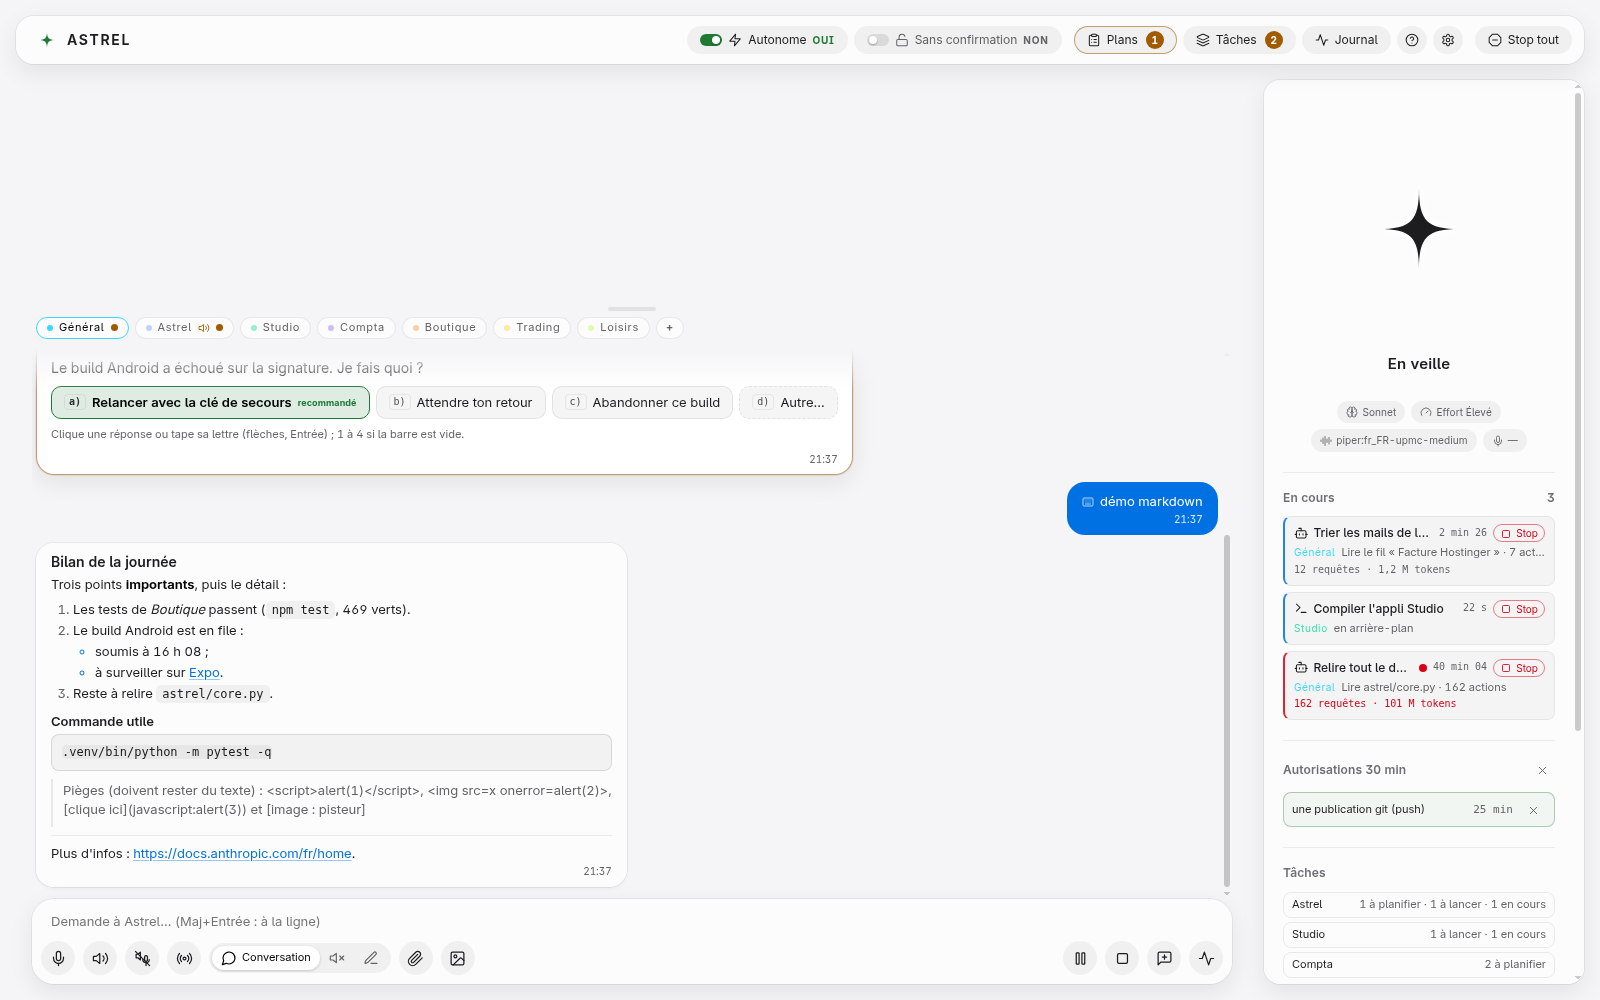
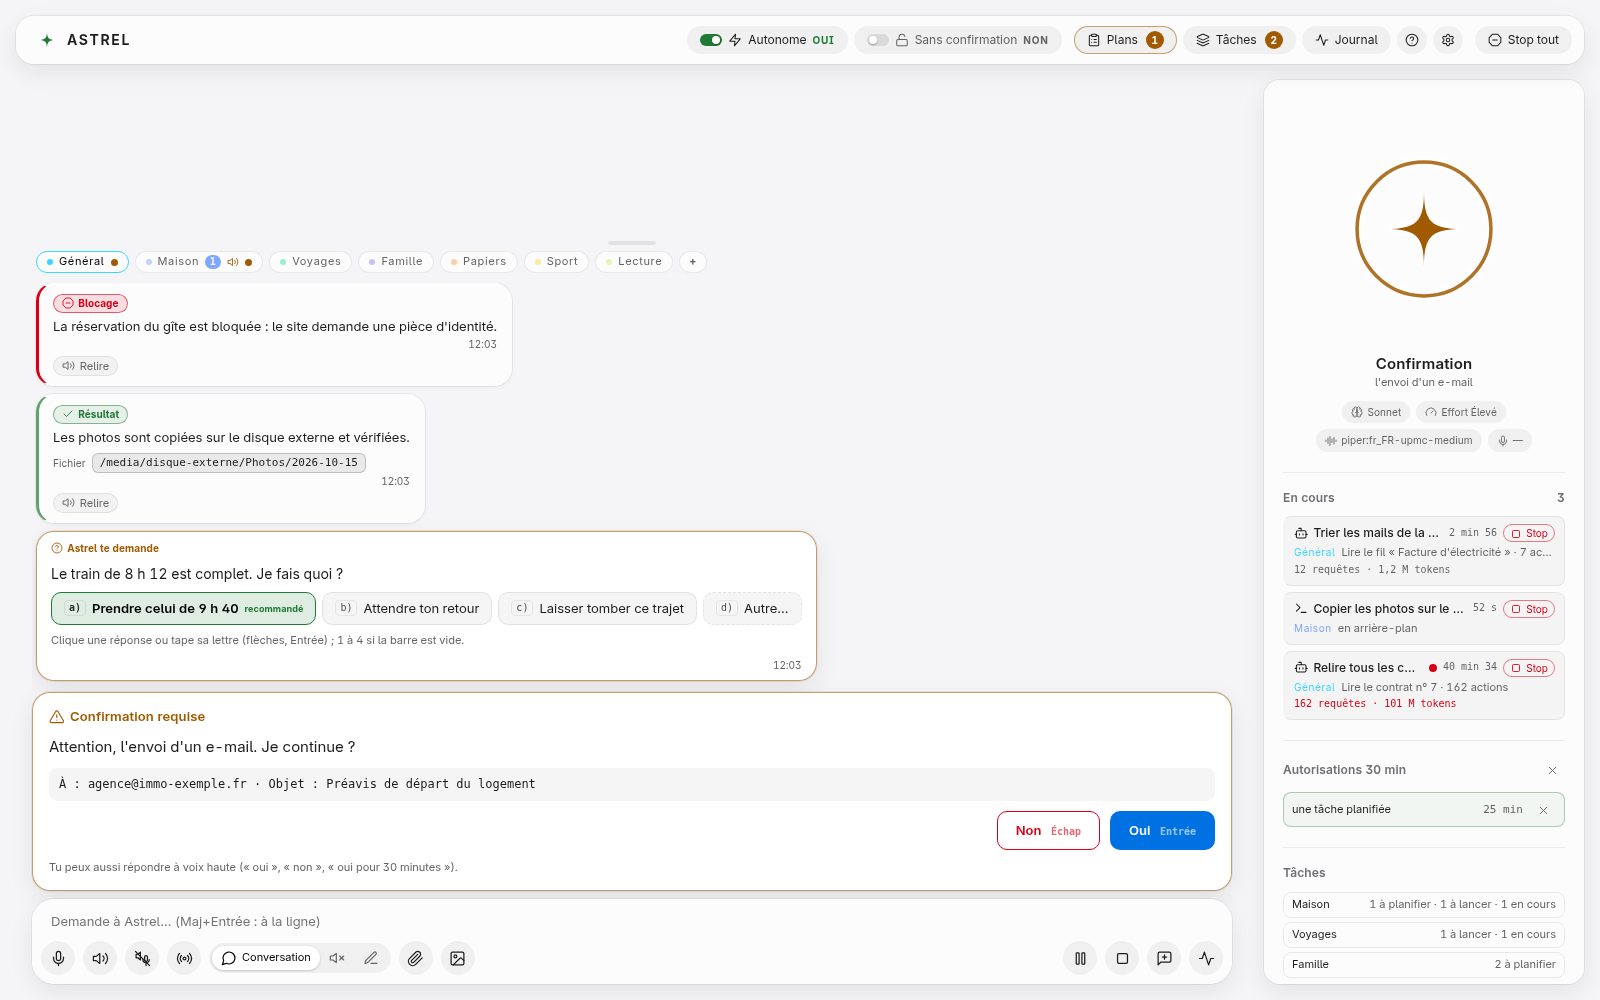
docs : installation Windows par WSL2, ouverture du HUD hors Linux
README FR et EN : WSL2 devient la voie conseillée sous Windows (systemd,
Claude Code et Chrome dans Ubuntu, micro) ; Windows natif signalé comme pas
encore prêt. --hud ouvre le navigateur par défaut quand xdg-open manque.

diff --git a/tests/test_renommage_astrel.py b/tests/test_renommage_astrel.py
@@ -5,7 +5,7 @@ Contrôle de fin du chantier : plus aucun fichier du projet ne contient l'ancien
 son nom. ROUGE tant que les lots 1 à 7 du plan ne sont pas tous faits (variables d'environnement,
 paquet Python, serveur MCP, services, dossier, données) : le message d'échec dit où il en reste.
 
-Liste blanche (plan P42) : `reference/` (absent de ce dépôt), NOTICE, LICENSE, le
+Liste blanche (plan P42) : NOTICE, LICENSE, le
 modèle openWakeWord tiers `hey_jarvis_v0.1.onnx`, et ce fichier lui-même (il doit nommer ce qu'il
 cherche). Hors contrôle : venvs, node_modules, données d'entraînement, `runtime/`, `logs/` (données,
 lot 6), `.git`, caches, binaires.
@@ -23,7 +23,7 @@ ANCIEN = re.compile("jarvis", re.I)
 # Dossiers jamais parcourus (données, dépendances, caches) : par NOM, à tout niveau.
 SAUTES = {"node_modules", "__pycache__", ".pytest_cache", ".git", ".eveil-donnees", ".rtk"}
 # Dossiers de premier niveau hors contrôle : venvs, données (lot 6) et liste blanche du plan.
-SAUTES_RACINE = {"runtime", "logs", "reference"}
+SAUTES_RACINE = {"runtime", "logs"}
 # Fichiers de la liste blanche (chemins relatifs à la racine).
 BLANCHE = {"NOTICE", "LICENSE", "tests/test_renommage_astrel.py"}
 BLANCHE_NOMS = {"hey_jarvis_v0.1.onnx"}
@@ -101,5 +101,4 @@ def test_aucun_fichier_ne_porte_l_ancien_nom():
 def test_la_liste_blanche_reste_en_place():
     """La liste blanche ne doit pas cacher un oubli : chaque entrée existe vraiment."""
     assert (ROOT / "NOTICE").is_file() and (ROOT / "LICENSE").is_file()
-    # Dépôt public : pas de dossier reference/ ; la licence est celle du projet.
     assert "PolyForm Noncommercial" in (ROOT / "LICENSE").read_text(encoding="utf-8")

diff --git a/tests/test_maj.py b/tests/test_maj.py
@@ -1,5 +1,5 @@
 """Groupe « Mises à jour » de la page « Réglages » (17/10, plan P4, lot 7) : version,
-`git fetch`, `update.py` (jamais update.sh) seulement hors d'un dépôt bloqué et sans fichier suivi
+`git fetch`, `update.py` (jamais update.sh) seulement avec une origine et sans fichier suivi
 modifié. Faux git : rien n'est lancé pour de vrai."""
 import types
 
@@ -48,12 +48,11 @@ def test_version_et_depot_sans_identifiants(git):
     assert lines["Dépôt"] == "https://github.com/ami/astrel.git" and lines["État"] == "pas encore vérifié"
 
 
-def test_depot_bloque_tout_grise(git, monkeypatch):
+def test_sans_depot_d_origine_tout_grise(git):
     m, state, calls, launched = git
-    monkeypatch.setattr(maj_mod, "BLOCKED_ORIGINS", ("ancien-depot",))
-    state["origin"] = "https://github.com/exemple/ancien-depot.git"
+    state["origin"] = ""
     a = actions(m.view())
-    assert a["check"]["disabled"] and a["update"]["disabled"] and "bloqué" in a["update"]["reason"]
+    assert a["check"]["disabled"] and a["update"]["disabled"] and "origine" in a["update"]["reason"]
     assert m.run("update")["ok"] is False and m.run("check")["ok"] is False
     assert launched == [] and not any(c[0] == "fetch" for c in calls)
     assert reglages.action("maj", "update", {})["ok"] is False

diff --git a/astrel/maj.py b/astrel/maj.py
@@ -3,8 +3,7 @@
 - Version : `astrel.__version__` et le commit en cours.
 - « Vérifier » : `git fetch` (fil à part), puis le nombre de commits d'avance du dépôt.
 - « Mettre à jour » : lance `update.py` (JAMAIS `update.sh`), détaché (il relance Astrel),
-  SEULEMENT si le dépôt d'origine n'est pas bloqué (`BLOCKED_ORIGINS`) et si
-  aucun fichier suivi n'est modifié ; sinon le bouton est grisé avec sa raison.
+  SEULEMENT s'il y a un dépôt d'origine et si aucun fichier suivi n'est modifié ; sinon le bouton est grisé avec sa raison.
 Rien n'est jamais poussé.
 """
 from __future__ import annotations
@@ -21,7 +20,6 @@ from . import __version__, config
 
 log = logging.getLogger("astrel.maj")
 
-BLOCKED_ORIGINS: tuple[str, ...] = ()  # morceaux d'adresse d'un dépôt d'origine à ne jamais mettre à jour
 FETCH_TIMEOUT_S = 60.0
 LOCAL_CACHE_S = 30.0
 
@@ -80,8 +78,6 @@ class MiseAJour:
         origin = str(state.get("origin") or "").lower()
         if not origin:
             return "aucun dépôt d'origine"
-        if any(b in origin for b in BLOCKED_ORIGINS):
-            return "dépôt d'origine bloqué : ce n'est pas celui d'Astrel, mise à jour à la main"
         return ""
 
     # ------------------------------------------------------------------ vue

diff --git a/astrel/audio.py b/astrel/audio.py
@@ -1,7 +1,7 @@
 """Capture et restitution audio via PipeWire en ligne de commande.
 
 ⚠ On évite volontairement PortAudio (`sounddevice`) : il exige le paquet système
-`libportaudio2`, absent de la machine de référence. `parecord`/`paplay` sont déjà là et suffisent.
+`libportaudio2`, absent de cette machine. `parecord`/`paplay` sont déjà là et suffisent.
 
 Portage (P2, lot 5) : ce moteur « pulse » reste celui de Linux, inchangé. Sous
 macOS et Windows, où il n'y a pas PipeWire, le moteur `sounddevice` (PortAudio

diff --git a/astrel/cli.py b/astrel/cli.py
@@ -180,7 +180,12 @@ def open_hud() -> int:
             if pages:
                 _close_older_huds(opened_at)
             return 0
-    subprocess.Popen(["xdg-open", url], start_new_session=True)
+    if shutil.which("xdg-open"):
+        subprocess.Popen(["xdg-open", url], start_new_session=True)
+    else:
+        # 03/11 : macOS et Windows n'ont pas xdg-open ; navigateur par défaut du système.
+        import webbrowser
+        webbrowser.open(url)
     return 0
 
 

diff --git a/README.md b/README.md
@@ -16,8 +16,8 @@ montre ce qu'il fait pendant qu'il le fait.
 **Un garde-fou avant chaque action.** Claude tourne sans demander de permission au CLI, mais un hook
 `PreToolUse` (`hooks/permission_hook.py`, logique dans `astrel/guard.py`) juge chaque appel d'outil.
 Les commandes Bash sont analysées de façon structurée : suppressions récursives, écritures vers des
-fichiers sensibles, commandes déguisées. Ce qui est grave (supprimer, envoyer, payer, `sudo`,
-`git push`…) attend une réponse à la voix, d'un clic dans le HUD ou d'un geste devant la webcam.
+fichiers sensibles, commandes déguisées. Ce qui est grave (supprimer, envoyer, payer, partager,
+`sudo`…) attend une réponse à la voix, d'un clic dans le HUD ou d'un geste devant la webcam.
 Un hook qui plante refuse. Au troisième refus d'affilée dans un même message, un disjoncteur dit à
 Claude d'arrêter de contourner et de demander. Avant chaque écriture de Claude, le hook garde la
 version d'avant : « annule ce que tu viens de faire » rétablit le dernier lot de fichiers. Claude ne peut ni répondre « oui » à sa propre demande ni desserrer le
@@ -42,11 +42,11 @@ passe jamais par la ligne de commande et un cookie signé. Le markdown des répo
 nœuds DOM d'une liste fermée, sans `innerHTML`. Une bulle flottante (GTK) donne l'état d'un coup
 d'œil et reçoit les questions de confirmation.
 
-**Une équipe d'agents pour les projets de l'utilisateur.** Astrel délègue à des sous-agents
-définis dans `config/agents/` (codeur, testeur, relecteur, planificateur, chercheur…), chacun avec
-sa fiche de métier. Après un codeur, un testeur puis un relecteur repassent derrière. Un hook choisit
-le modèle de chaque sous-agent : une tâche de code part toujours sur Opus. Les gros chantiers
-passent par un mode plan : un plan écrit, relu dans le HUD, puis exécuté.
+**Des agents spécialisés, lancés en fond pour les tâches longues.** Une recherche sur plusieurs
+sites, une semaine de mails à trier : Astrel confie ce qui prend du temps à des sous-agents définis
+dans `config/agents/`, chacun avec sa fiche de métier, et la conversation continue pendant ce temps.
+Le HUD montre ce que fait chaque agent et ce qu'il a coûté. Il prévient quand l'un d'eux s'emballe.
+Les gros chantiers passent par un mode plan : un plan écrit, relu dans le HUD, puis exécuté.
 
 **De la mémoire et des jetons comptés.** Notes en Markdown dans un coffre local, rappelées avant
 chaque message ; historique des conversations indexé en SQLite FTS5 (`history_search`). Quand le
@@ -92,7 +92,7 @@ flowchart LR
     Claude --> Hook{"Hook PreToolUse<br/>garde-fou"}
     Hook -->|autorisé| Outils["Terminal, fichiers,<br/>MCP Astrel, navigateur"]
     Hook -->|grave| Accord(["Accord de l'utilisateur :<br/>voix, HUD, bulle, geste"])
-    Claude --> Agents["Sous-agents<br/>codeur, testeur, relecteur"]
+    Claude --> Agents["Agents spécialisés<br/>tâches longues, en fond"]
     Coeur --> Voix["Voix phrase par phrase<br/>Edge, Piper en secours"] --> HP((Haut-parleur))
     Coeur <--> HUD["HUD web<br/>127.0.0.1 seulement"]
     Coeur <--> Bulle["Bulle GTK"]
@@ -108,8 +108,9 @@ texte des réponses, jamais le son du micro.
 |---|---|
 | **Debian 13**, GNOME, Wayland | Utilisé tous les jours : c'est la machine de référence. |
 | Ubuntu 24.04, Debian 12 | Mêmes paquets ; pas encore essayé sur une machine neuve. |
-| Windows 11 + WSL2 | Prévu (son par WSLg), pas vérifié. Ni bulle ni raccourcis. |
-| macOS, Windows natif | Portés sur le papier (couche `astrel/platform/`), **jamais lancés sur une vraie machine**. |
+| Windows 10 ou 11 + WSL2 | **La voie conseillée sous Windows** : le code Linux, dans Ubuntu. Premier essai en cours. |
+| macOS | Porté sur le papier (couche `astrel/platform/`), **jamais lancé sur une vraie machine**. |
+| Windows natif | **Pas encore prêt** : le démarrage plante (deux appels propres à Linux à adapter). |
 
 La bulle, les raccourcis globaux, le démarrage automatique et la transcription sur carte graphique
 ne marchent que sous Linux. Hors Linux, la protection contre un programme lancé par Claude est plus
@@ -139,8 +140,8 @@ le HUD ouvre un guide de démarrage ([docs/GUIDE-DEMARRAGE.md](docs/GUIDE-DEMARR
 du mode d'emploi est dans [docs/UTILISATION.md](docs/UTILISATION.md) et
 [docs/DEPANNAGE.md](docs/DEPANNAGE.md).
 
-Une nouvelle installation démarre en mode prudent : il demande aussi pour les commits, les comptes
-connectés et l'écriture dans le dossier personnel. `./run.sh doctor` vérifie que le garde-fou est en
+Une nouvelle installation démarre en mode prudent : il demande aussi pour les comptes connectés et
+l'écriture dans le dossier personnel. `./run.sh doctor` vérifie que le garde-fou est en
 place et n'a pas changé.
 
 Pour essayer le HUD sans micro ni abonnement : `.venv/bin/python tools/hud_demo.py` puis `./hud.sh`.
@@ -163,30 +164,45 @@ python3.12 install.py                     # installateur commun (aucun sudo)
 Le son passe par sounddevice, installé avec Astrel ; macOS demande l'accès au micro au premier
 lancement. Le dossier des projets est `~/Projets`, ou celui de la variable `ASTREL_WORKDIR`.
 
-### Windows (expérimental)
+### Windows : par WSL2
 
-**Par WSL2, la voie conseillée, non vérifiée.** Dans PowerShell lancé en administrateur :
-`wsl --install -d Ubuntu-24.04`, redémarrer, puis suivre la partie Debian ou Ubuntu dans la
-fenêtre Ubuntu. WSL n'a pas toujours systemd : lancer alors Astrel avec
-`ASTREL_WORKDIR=~/Projets ./run.sh` et le HUD avec `./hud.sh`. Le son passe par WSLg ; le micro
-n'a pas été essayé (`./run.sh --listen` pour le vérifier).
+Astrel tourne alors dans un Ubuntu intégré à Windows, avec le même code que sur la machine de
+référence. Il faut Windows 11, ou Windows 10 à jour (version 22H2), pour que WSLg transmette le son,
+le micro et les fenêtres. Cette voie est en cours de premier essai : signale tout ce qui coince.
 
-**En natif, jamais lancé sur une vraie machine.** Dans PowerShell :
+1. Dans PowerShell **lancé en administrateur** :
+   ```powershell
+   wsl --install -d Ubuntu-24.04
+   ```
+   Redémarre, ouvre « Ubuntu » depuis le menu Démarrer et crée l'utilisateur demandé.
+2. Vérifie que systemd tourne dans Ubuntu : `systemctl --user status` doit répondre. Sinon :
+   ```bash
+   printf '[boot]\nsystemd=true\n' | sudo tee /etc/wsl.conf
+   ```
+   puis `wsl --shutdown` dans PowerShell, et rouvre Ubuntu.
+3. Installe Claude Code **dans Ubuntu** et connecte-le à ton abonnement Claude (Pro ou Max) :
+   ```bash
+   curl -fsSL https://claude.ai/install.sh | bash
+   claude          # suis le lien de connexion, puis /exit
+   ```
+4. Installe Google Chrome dans Ubuntu : le HUD s'ouvre dans une fenêtre de Chrome, affichée sur le
+   bureau Windows par WSLg.
+   ```bash
+   wget https://dl.google.com/linux/direct/google-chrome-stable_current_amd64.deb
+   sudo apt install ./google-chrome-stable_current_amd64.deb
+   ```
+5. Suis la partie **Debian ou Ubuntu** ci-dessus, dans la fenêtre Ubuntu. Clone Astrel dans le
+   dossier Linux (`~/Astrel`), pas sous `/mnt/c/…`, beaucoup plus lent.
+6. Vérifie le micro avec `./run.sh --listen`. Windows doit autoriser le micro aux applications de
+   bureau (Paramètres › Confidentialité et sécurité › Microphone).
 
-```powershell
-winget install Python.Python.3.12        # case « Add to PATH » cochée
-winget install Git.Git
-winget install OpenJS.NodeJS.LTS
-git clone https://github.com/Zaudrax/Astrel.git $HOME\Astrel
-cd $HOME\Astrel
-py tools\check_install.py
-.\install.ps1                            # refusé ? PowerShell -ExecutionPolicy Bypass -File .\install.ps1
-.venv\Scripts\python -m astrel
-.venv\Scripts\python -m astrel --hud     # dans un autre terminal
-```
+Une carte NVIDIA sert aussi sous WSL2 si son pilote Windows est à jour ; sinon le processeur
+transcrit, plus lentement. La bulle et les raccourcis globaux ne sont pas garantis sous WSLg.
 
-Installe Astrel dans ton profil (`C:\Users\<toi>\…`), pas à la racine d'un disque : le canal
-local passe par 127.0.0.1 avec un jeton écrit dans le dossier d'Astrel.
+### Windows natif : pas encore prêt
+
+`install.ps1` existe, mais Astrel plante au démarrage tant que deux appels propres à Linux ne sont
+pas adaptés (serveur du HUD). Passe par WSL2 en attendant.
 
 **Hors Linux, ce qui manque encore :** la bulle, les raccourcis globaux, le démarrage automatique
 (Astrel se lance à la main), la transcription sur carte graphique (elle passe par le processeur)

diff --git a/README.en.md b/README.en.md
@@ -16,7 +16,7 @@ while it does it.
 **A guardrail before every action.** Claude runs without the CLI's permission prompts, but a
 `PreToolUse` hook (`hooks/permission_hook.py`, logic in `astrel/guard.py`) judges every tool call.
 Bash commands are parsed structurally: recursive deletes, writes to sensitive files, disguised
-commands. Anything serious (deleting, sending, paying, `sudo`, `git push`…) waits for an answer by
+commands. Anything serious (deleting, sending, paying, sharing, `sudo`…) waits for an answer by
 voice, a click in the HUD or a gesture in front of the webcam. A hook that crashes denies. After three refusals in a row within one message, a circuit breaker
 tells Claude to stop working around it and ask. Before each write by Claude, the hook keeps the
 previous version: "undo what you just did" restores the last batch of files. Claude
@@ -41,11 +41,11 @@ appears on a command line and a signed cookie. Markdown in answers is rendered a
 closed list, without `innerHTML`. A floating bubble (GTK) shows the state at a glance and receives
 confirmation questions.
 
-**A team of agents for the user's projects.** Astrel delegates to sub-agents defined in
-`config/agents/` (coder, tester, reviewer, planner, researcher…), each with its role sheet. After a
-coder, a tester then a reviewer check the work. A hook picks each sub-agent's model: a coding task
-always runs on Opus. Large jobs go through a plan mode: a written plan, reviewed in the HUD, then
-carried out.
+**Specialised agents running in the background for long tasks.** A search across several sites, a
+week of email to sort: Astrel hands the slow work to sub-agents defined in `config/agents/`, each
+with its role sheet, and the conversation goes on in the meantime. The HUD shows what each agent is
+doing and what it has cost, and warns when one of them runs away. Large jobs go through a plan
+mode: a written plan, reviewed in the HUD, then carried out.
 
 **Memory, and tokens kept in check.** Markdown notes in a local vault, recalled before each
 message; conversation history indexed with SQLite FTS5 (`history_search`). When the context goes
@@ -91,7 +91,7 @@ flowchart LR
     Claude --> Hook{"PreToolUse hook<br/>guardrail"}
     Hook -->|allowed| Tools["Terminal, files,<br/>Astrel MCP, browser"]
     Hook -->|serious| Consent(["User's consent:<br/>voice, HUD, bubble, gesture"])
-    Claude --> Agents["Sub-agents<br/>coder, tester, reviewer"]
+    Claude --> Agents["Specialised agents<br/>long tasks, in the background"]
     Core --> Voice["Sentence-by-sentence voice<br/>Edge, Piper fallback"] --> Spk((Speaker))
     Core <--> HUD["Web HUD<br/>127.0.0.1 only"]
     Core <--> Bubble["GTK bubble"]
@@ -107,8 +107,9 @@ receives the text of the answers, never the microphone audio.
 |---|---|
 | **Debian 13**, GNOME, Wayland | Used every day: this is the reference machine. |
 | Ubuntu 24.04, Debian 12 | Same packages; not yet tried on a fresh machine. |
-| Windows 11 + WSL2 | Planned (sound through WSLg), not verified. No bubble, no shortcuts. |
-| macOS, native Windows | Ported on paper (`astrel/platform/` layer), **never run on a real machine**. |
+| Windows 10 or 11 + WSL2 | **The recommended route on Windows**: the Linux code, inside Ubuntu. First trial under way. |
+| macOS | Ported on paper (`astrel/platform/` layer), **never run on a real machine**. |
+| Native Windows | **Not ready yet**: startup crashes (two Linux-only calls to adapt). |
 
 The bubble, global shortcuts, autostart and GPU transcription work on Linux only. Outside Linux,
 protection against a program started by Claude is weaker: there is no cgroup to recognise it.
@@ -135,8 +136,8 @@ systemctl --user start astrel         # the assistant
 The step-by-step guide is in [docs/INSTALLATION.md](docs/INSTALLATION.md) (in French). On first
 launch the HUD opens a getting-started guide ([docs/GUIDE-DEMARRAGE.en.md](docs/GUIDE-DEMARRAGE.en.md)).
 
-A new installation starts in cautious mode: it also asks before commits, connected accounts and
-writes in the home folder. `./run.sh doctor` checks that the guardrail is in place and unchanged.
+A new installation starts in cautious mode: it also asks before using connected accounts and
+writing in the home folder. `./run.sh doctor` checks that the guardrail is in place and unchanged.
 
 To try the HUD without a microphone or a subscription: `.venv/bin/python tools/hud_demo.py`, then
 `./hud.sh`.
@@ -159,30 +160,46 @@ python3.12 install.py                     # shared installer (no sudo)
 Sound goes through sounddevice, installed with Astrel; macOS asks for microphone access on first
 launch. The projects folder is `~/Projets`, or the one in the `ASTREL_WORKDIR` variable.
 
-### Windows (experimental)
+### Windows: through WSL2
 
-**Through WSL2, the recommended route, not verified.** In PowerShell run as administrator:
-`wsl --install -d Ubuntu-24.04`, restart, then follow the Debian or Ubuntu part in the Ubuntu
-window. WSL does not always have systemd: in that case start Astrel with
-`ASTREL_WORKDIR=~/Projets ./run.sh` and the HUD with `./hud.sh`. Sound goes through WSLg; the
-microphone has not been tried (`./run.sh --listen` to check it).
+Astrel then runs in an Ubuntu built into Windows, with the same code as on the reference machine.
+You need Windows 11, or an up-to-date Windows 10 (version 22H2), so that WSLg carries sound, the
+microphone and windows. This route is being tried for the first time: report anything that gets
+in the way.
 
-**Native, never run on a real machine.** In PowerShell:
+1. In PowerShell **run as administrator**:
+   ```powershell
+   wsl --install -d Ubuntu-24.04
+   ```
+   Restart, open "Ubuntu" from the Start menu and create the user it asks for.
+2. Check that systemd runs inside Ubuntu: `systemctl --user status` must answer. If not:
+   ```bash
+   printf '[boot]\nsystemd=true\n' | sudo tee /etc/wsl.conf
+   ```
+   then `wsl --shutdown` in PowerShell, and reopen Ubuntu.
+3. Install Claude Code **inside Ubuntu** and sign it in to your Claude subscription (Pro or Max):
+   ```bash
+   curl -fsSL https://claude.ai/install.sh | bash
+   claude          # follow the sign-in link, then /exit
+   ```
+4. Install Google Chrome inside Ubuntu: the HUD opens in a Chrome window, shown on the Windows
+   desktop by WSLg.
+   ```bash
+   wget https://dl.google.com/linux/direct/google-chrome-stable_current_amd64.deb
+   sudo apt install ./google-chrome-stable_current_amd64.deb
+   ```
+5. Follow the **Debian or Ubuntu** part above, in the Ubuntu window. Clone Astrel into the Linux
+   folder (`~/Astrel`), not under `/mnt/c/…`, which is much slower.
+6. Check the microphone with `./run.sh --listen`. Windows must allow desktop apps to use the
+   microphone (Settings › Privacy & security › Microphone).
 
-```powershell
-winget install Python.Python.3.12        # tick "Add to PATH"
-winget install Git.Git
-winget install OpenJS.NodeJS.LTS
-git clone https://github.com/Zaudrax/Astrel.git $HOME\Astrel
-cd $HOME\Astrel
-py tools\check_install.py
-.\install.ps1                            # refused? PowerShell -ExecutionPolicy Bypass -File .\install.ps1
-.venv\Scripts\python -m astrel
-.venv\Scripts\python -m astrel --hud     # in another terminal
-```
+An NVIDIA card also works under WSL2 if its Windows driver is up to date; otherwise the CPU does
+the transcription, more slowly. The bubble and global shortcuts are not guaranteed under WSLg.
 
-Install Astrel in your profile (`C:\Users\<you>\…`), not at the root of a drive: the local channel
-goes through 127.0.0.1 with a token written in Astrel's folder.
+### Native Windows: not ready yet
+
+`install.ps1` exists, but Astrel crashes at startup until two Linux-only calls are adapted (HUD
+server). Use WSL2 in the meantime.
 
 **Still missing outside Linux:** the bubble, global shortcuts, autostart (Astrel is started by
 hand), GPU transcription (the CPU does it) and the `doctor` health check. The guardrail is less

diff --git a/docs/INSTALLATION.md b/docs/INSTALLATION.md
@@ -27,6 +27,15 @@ flowchart LR
    et demande un nom d'utilisateur et un mot de passe : choisis-les (le mot de
    passe ne s'affiche pas quand tu le tapes, c'est normal).
 4. Toutes les commandes suivantes se tapent **dans cette fenêtre Ubuntu**.
+5. Vérifie que systemd tourne : `systemctl --user status` doit répondre. Sinon :
+   `printf '[boot]\nsystemd=true\n' | sudo tee /etc/wsl.conf`, puis
+   `wsl --shutdown` dans PowerShell, et rouvre Ubuntu.
+6. Installe Google Chrome dans Ubuntu (le HUD s'ouvre dans sa fenêtre) :
+   ```bash
+   wget https://dl.google.com/linux/direct/google-chrome-stable_current_amd64.deb
+   sudo apt install ./google-chrome-stable_current_amd64.deb
+   ```
+7. Clone Astrel dans le dossier Linux (`~/Astrel`), jamais sous `/mnt/c/…`.
 
 Windows 11 fournit le son et les fenêtres à WSL (WSLg). Le micro dans WSL n'a
 pas encore été essayé avec Astrel : l'étape 6 dit comment le vérifier.

diff --git a/docs/UTILISATION.md b/docs/UTILISATION.md
@@ -100,7 +100,7 @@ corriger et ranger ces notes toi-même : c'est voulu.
 `./run.sh --voices` fait parler toutes les voix disponibles ; le badge de voix
 du HUD permet d'en changer à chaud.
 
-Autre voix possible : **Charon, la voix native de Gemini**.
+La voix la plus naturelle est **Charon, la voix native de Gemini**.
 On la retrouve par l'API TTS de Gemini : poser `GEMINI_API_KEY` dans
 `config/secrets.json` (`{"GEMINI_API_KEY": "…"}`, clé gratuite sur
 aistudio.google.com), puis choisir « Gemini Charon ». Si Gemini tombe (réseau,
